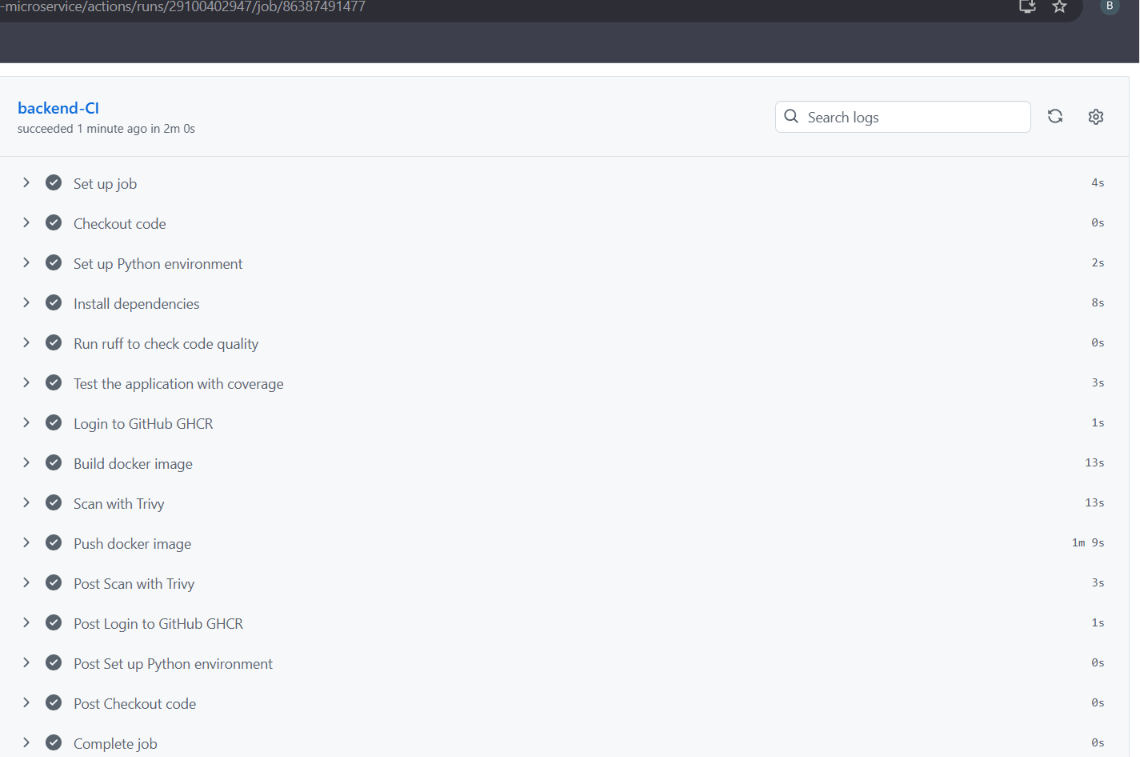
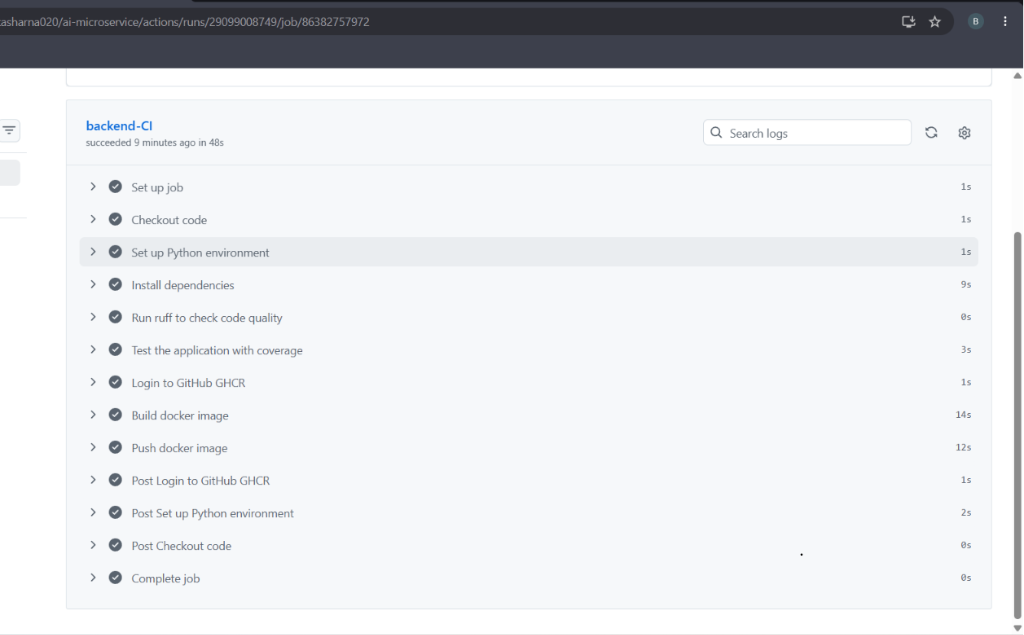
docs: finalize report and README with actual EKS cluster screenshots and clean old duplicates

diff --git a/README.md b/README.md
@@ -65,13 +65,13 @@ aws eks update-kubeconfig --region ap-south-1 --name ai-microservice-eks
 
 ### AWS EKS Cluster Provisioning Proofs
 * **Active EKS Cluster Status**:
-  ![AWS EKS Active Console](docs/aws_eks_active_v2.png)
+  ![AWS EKS Active Console](docs/cluster-active.png)
 * **EKS Cluster Details**:
-  ![AWS EKS Detail](docs/aws_eks_detail_v2.png)
+  ![AWS EKS Detail](docs/eks-clusterInfo.png.png)
 * **EKS Pods Running Verification**:
-  ![Kubernetes Pods Running Status](docs/k8s_pods_running_v2.png)
+  ![Kubernetes Pods Running Status](docs/kubernets active.png)
 * **Manual Deploy Command Logs**:
-  ![Kubernetes Manual Apply Output](docs/k8s_manual_apply_v2.png)
+  ![Kubernetes Manual Apply Output](docs/kubernets active.png)
 
 ## 3. Build & push the image
 ```bash
@@ -119,9 +119,9 @@ kubectl port-forward -n monitoring svc/monitoring-grafana 3000:80
 
 ### Centralized Monitoring & Logging Proofs
 * **Grafana Dashboard**:
-  ![Grafana Dashboard](docs/grafana_dashboard_v2.png)
+  ![Grafana Dashboard](docs/k8s dashboard.png.png)
 * **Loki Logs Explorer**:
-  ![Loki logs stream](docs/loki_logs_v2.png)
+  ![Loki logs stream](docs/loki.png.png)
 
 ## 6. CI/CD
 Push to `main` triggers `.github/workflows/ci-cd.yaml`:
@@ -130,7 +130,7 @@ Trivy scan (blocks on CRITICAL/HIGH) → push to ECR → `helm upgrade` on EKS**
 
 ### CI/CD Automation Proofs
 * **GitHub Actions Green CI Logs**:
-  ![GitHub Actions Green Pipeline](docs/github_actions_ci_v2.png)
+  ![GitHub Actions Green Pipeline](docs/ci-cd pipeline.png)
 * **Trivy Container Vulnerability Scan Logs**:
   ![Trivy Scan Logs](docs/github_trivy_logs.png.png)
 